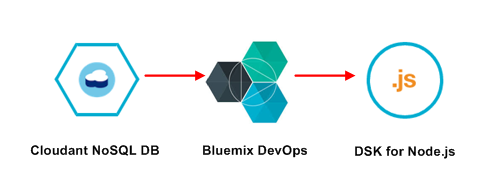
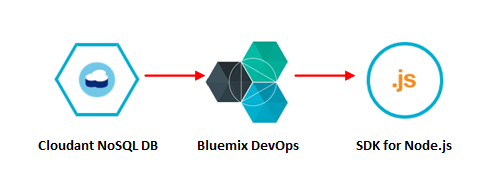
Update Data Developer

Changed region(s): [[0.707, 0.8, 0.9529, 0.9143], [0.0615, 0.8, 0.3381, 0.8857], [0.3996, 0.8, 0.6455, 0.9143]]

diff --git a/4.applicationdeveloper/readme.md b/4.applicationdeveloper/readme.md
@@ -1,45 +1,65 @@
-[<img src="https://github.com/ibmdataworks/datafirst/raw/master/datascientist/media/EventHeader.png">](https://github.com/ibmdataworks/datafirst/)
+[<img src="https://github.com/hatv/dataworks/raw/master/media/IBMBizCo.jpg">](http://www.ibm.com/fr/businessconnect/)
 #Hands on Lab - Application Developer.
-[<img src="https://github.com/ibmdataworks/datafirst/raw/master/datascientist/media/ADE2E.png">](https://github.com/ibmdataworks/datafirst/tree/master/appdeveloper)
+[<img src="./media/ApplicationDeveloperRole.png">](https://github.com/hatv/dataworks/tree/master/4.applicationdeveloper)
 
-As an Application Developer, you need multiple application and data services that facilitate a modern architecture and delivery practices around mobile, microservices, DevOps and continuous delivery. Perform hands-on exercises to quickly build and deploy a live dashboard with Node.js connceted to a document data service, IBM Cloudant based on CouchDB.
+As an Application Developer, you need multiple application and data services that facilitate a modern architecture and delivery practices around mobile, microservices, DevOps and continuous delivery. Perform hands-on exercises to quickly build and deploy a live dashboard with Node.js connected to a document data service, IBM Cloudant based on CouchDB.
 
 
 ##Lab Components: IBM Bluemix Cloud Offering Used
 
 1.  **Source Data Repository**: **Cloudant NoSQL DB**
 
-2.  **Software Development Tools**: **DevOps Services and Git **
+2.  **Software Development Tools**: **DevOps Services and Git**
 
 3.  **Runtime Environment**: **SDK for Node.js**
 
  <img src="./media/image1.png" width="487" height="175" />
 
 Watch Full Lab Video (Optional): https://youtu.be/jhFo47juTFI
- > [<img src="https://github.com/ibmdataworks/datafirst/blob/master/datascientist/media/AD Video.png" width="382">](https://youtu.be/jhFo47juTFI "Business Analyst")
+ > [<img src="./media/ApplicationDeveloperVideo.png" width="382">](https://youtu.be/jhFo47juTFI "Application Developer Video")
 
 
-#Step 1. Get on BlueMix...
+#Step 1. Get on Bluemix...
 
-> NOTE: If you already have a Bluemix account then skip this steps:
+> NOTE: If you already have a Bluemix account, you can skip to the next section.
 
-1.  Go to [www.bluemix.net](http://www.bluemix.net)
+1.  Go to [www.bluemix.net](https://www.bluemix.net)
 
-2.  Click the signup button on the top right
+2.  If you have followed the first lab about the Business Analyst, you should land on the following page where you can choose to signup
 
- > <img src="./media/image2.png" width="624" height="171" />
+ > <img src="./media/image2b.png" width="400" />
 
-3.  On the next page fill in the corresponding fields and click “Create Account”
+	Else, just click the signup button on the top right on the standard Bluemix homepage
 
- > <img src="./media/image3.png" width="624" height="300" />
+ > <img src="../4.applicationdeveloper/media/image2.png" width="400" />
+
+3.  On the next page fill in the corresponding fields and click “Create Account”. If you already registered to Watson Analytics before, your IBMid should be recognized and the registration form should be shortened.
+
+ > <img src="../4.applicationdeveloper/media/image3.png" width="400" />
 
 4.  You will see a page asking you to check your email for next steps. Check your email that you used to sign up for Bluemix
 
- > <img src="./media/image4.png" width="237" height="219" />
+ > <img src="../4.applicationdeveloper/media/image4.png" width="400" />
 
 5.  Click on the “confirm your account” link
 
- > <img src="./media/image5.png" width="396" height="330" />
+ > <img src="../4.applicationdeveloper/media/image5.png" width="400" />
+
+6.	You can then login to Bluemix from [www.bluemix.net](https://www.bluemix.net)
+
+7.	If you don't automatically get to it, follow this link to go to the first configuration steps: https://console.ng.bluemix.net/login?state=/home/onboard/
+
+8.	You will be asked to create an organization. At this moment, you can chose between multiple Bluemix public regions. Choose the "US South" region in Dallas to access all the new services (required to configure Data Science Experience)
+
+ > <img src="../4.applicationdeveloper/media/image5b.png" width="400" />
+
+9.	And then, to create a space
+
+ > <img src="../4.applicationdeveloper/media/image5c.png" width="400" />
+
+10. When it's done, you can go ahead by clicking "I'm ready"
+
+ > <img src="../4.applicationdeveloper/media/image5d.png" width="400" />
 
 #Step 2. Dowload Data Files
 

diff --git a/readme.md b/readme.md
@@ -20,6 +20,6 @@ Perform this hands-on lab and in a few clicks you can standardize, transform, an
 ##[Data Scientist Lab - Click Here](./3.datascientist/)
 As a Data Scientist, you have to turn raw data into meaning using state-of-the-art techniques leveraging open source and enterprise applications. Perform this hands-on lab leveraging Apache Spark, Jupyter, Python, and R to derive sales performance for a specific product line, then build an advanced Machine Learning model in R.
 ##[Application Developer Lab - Click Here](./4.applicationdeveloper/)
-As an Application Developer, you need multiple application and data services that facilitate a modern architecture and delivery practices around mobile, microservices, DevOps and continuous delivery. Perform this hands-on lab to quickly build and deploy a live dashboard with Node.js connceted to a document data service.
+As an Application Developer, you need multiple application and data services that facilitate a modern architecture and delivery practices around mobile, microservices, DevOps and continuous delivery. Perform this hands-on lab to quickly build and deploy a live dashboard with Node.js connected to a document data service.
 
 

diff --git a/2.dataengineer/readme.md b/2.dataengineer/readme.md
@@ -12,7 +12,7 @@ Setting up an enterprise level data movement infrastructure and then ingesting t
  > In this lab we will explore how a data engineer utilizes Data Connect and other IBM Bluemix cloud services to easily host, connect, ingest and persist enterprise data on to the cloud.
 
 Video of Lab Steps: https://youtu.be/655-6SPhkNI
-[<img src="./media/DataEngineerVideo.png">](https://youtu.be/655-6SPhkNI)
+[<img src="./media/DataEngineerVideo.png">](https://youtu.be/655-6SPhkNI "Data Engineer Video")
 
 Lab Components: IBM Bluemix Data Connect (formerly DataWorks Forge)
 ===============================================

diff --git a/3.datascientist/readme.md b/3.datascientist/readme.md
@@ -94,7 +94,7 @@ A Bluemix ID is needed to log into DSX. If you already have a Bluemix account, s
  
  > <img src="./media/image13.png">
  
- > You are now all set to start the Data Science Experience hands-on exercices.
+ > You can go back to the homepage and you are now all set to start the Data Science Experience hands-on exercices.
  
  > <img src="./media/image4.png">
  
